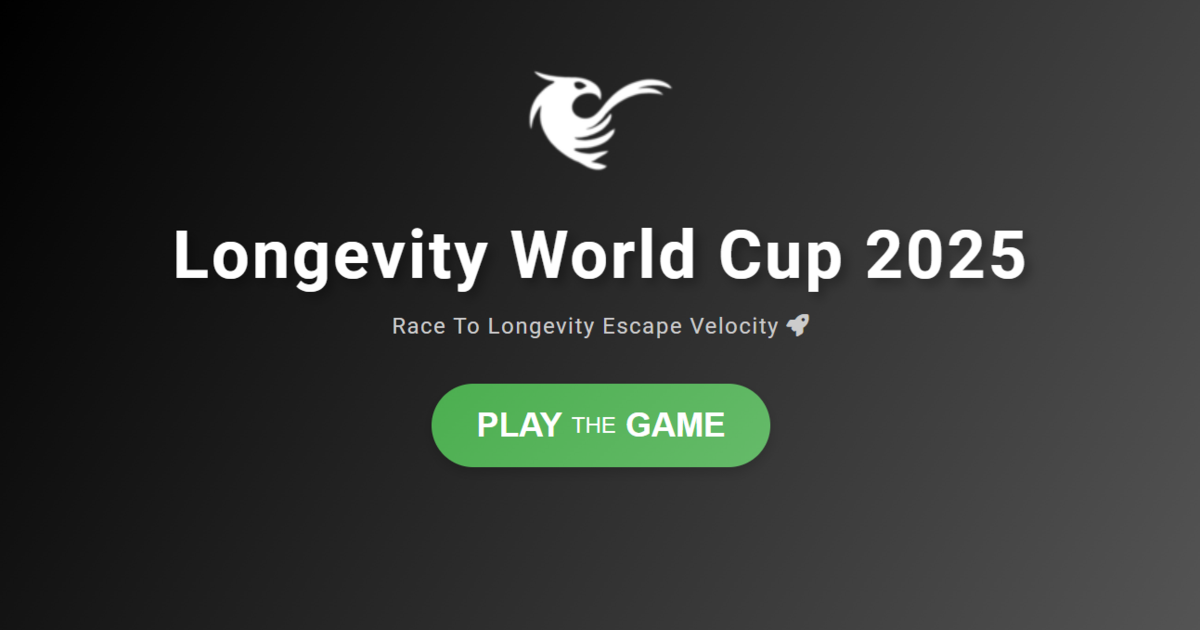
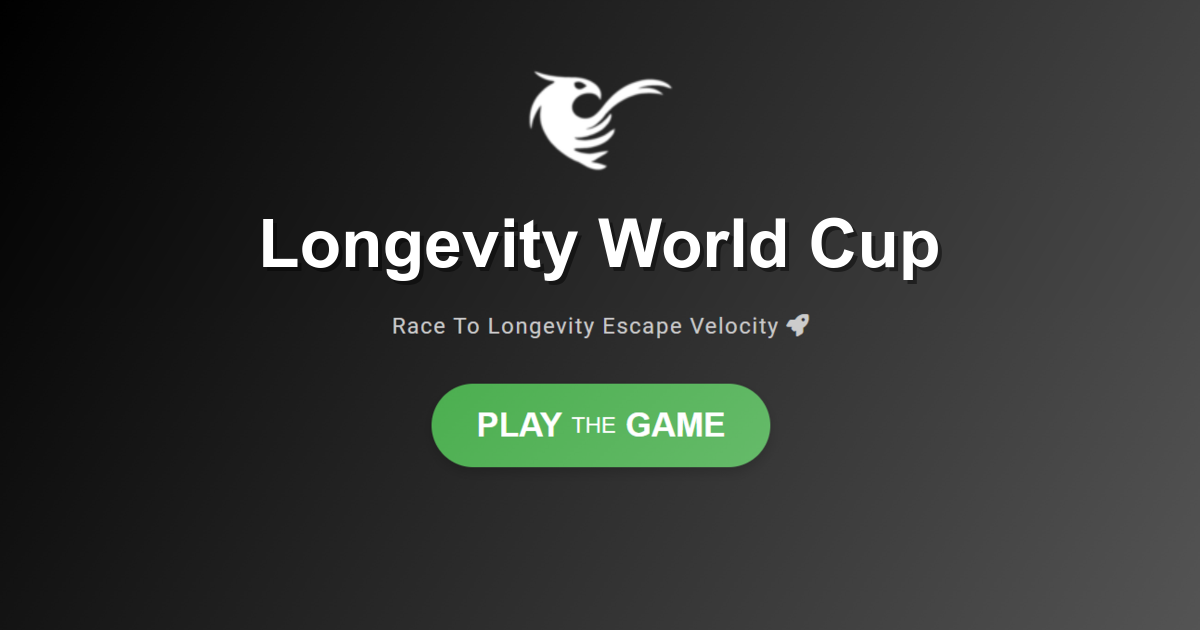
Update default social preview image
Closes #536

Changed region(s): [[0.1233, 0.3317, 0.8633, 0.4825]]

diff --git a/LongevityWorldCup.Website/Middleware/HtmlInjectionMiddleware.cs b/LongevityWorldCup.Website/Middleware/HtmlInjectionMiddleware.cs
@@ -13,7 +13,7 @@ namespace LongevityWorldCup.Website.Middleware
         private readonly LeagueOgImageService _leagueOgImages = leagueOgImages;
         private readonly AssetVersionProvider _assetVersionProvider = assetVersionProvider;
         private const string SiteBaseUrl = "https://longevityworldcup.com";
-        private const string DefaultOgImage = "https://longevityworldcup.com/assets/og-image.png";
+        private const string DefaultOgImagePath = "/assets/og-image.png";
         private static readonly HashSet<string> IndexableRoutes = new(StringComparer.OrdinalIgnoreCase)
         {
             "/",
@@ -325,10 +325,11 @@ $@"<script type=""module"">
             return baseSeo;
         }
 
-        private static SeoMeta GetBaseSeoMeta(string requestPath)
+        private SeoMeta GetBaseSeoMeta(string requestPath)
         {
             var canonicalPath = RouteCanonicalization.GetCanonicalPath(requestPath);
             var canonicalUrl = $"{SiteBaseUrl}{canonicalPath}";
+            var defaultOgImage = BuildDefaultOgImageUrl();
 
             return canonicalPath switch
             {
@@ -340,7 +341,7 @@ $@"<script type=""module"">
                     "Longevity World Cup | Reverse Your Biological Age",
                     "Longevity World Cup | Reverse Your Biological Age",
                     "Too old for your sport? Not this one. Join the Longevity World Cup and rise on the leaderboard by improving your biological age.",
-                    DefaultOgImage
+                    defaultOgImage
                 ),
                 "/leaderboard" => new SeoMeta(
                     canonicalPath,
@@ -350,7 +351,7 @@ $@"<script type=""module"">
                     "Leaderboard | Longevity World Cup",
                     "Leaderboard | Longevity World Cup",
                     "View the Longevity World Cup leaderboard for verified biological age reduction rankings across athletes, leagues, and categories.",
-                    DefaultOgImage
+                    defaultOgImage
                 ),
                 "/events" => new SeoMeta(
                     canonicalPath,
@@ -360,7 +361,7 @@ $@"<script type=""module"">
                     "Highlights | Longevity World Cup",
                     "Highlights | Longevity World Cup",
                     "Follow key Longevity World Cup events, season updates, and competition highlights.",
-                    DefaultOgImage
+                    defaultOgImage
                 ),
                 "/media" => new SeoMeta(
                     canonicalPath,
@@ -370,7 +371,7 @@ $@"<script type=""module"">
                     "Media Kit | Longevity World Cup",
                     "Media Kit | Longevity World Cup",
                     "Access the Longevity World Cup media kit with press-ready branding assets and resources.",
-                    DefaultOgImage
+                    defaultOgImage
                 ),
                 _ when !IndexableRoutes.Contains(canonicalPath) => new SeoMeta(
                     canonicalPath,
@@ -380,7 +381,7 @@ $@"<script type=""module"">
                     "Longevity World Cup",
                     "Longevity World Cup",
                     "Longevity World Cup member page.",
-                    DefaultOgImage
+                    defaultOgImage
                 ),
                 _ => new SeoMeta(
                     canonicalPath,
@@ -390,9 +391,14 @@ $@"<script type=""module"">
                     "Longevity World Cup",
                     "Longevity World Cup",
                     "Longevity World Cup - reverse biological age and compete globally.",
-                    DefaultOgImage
+                    defaultOgImage
                 )
             };
+        }
+
+        private string BuildDefaultOgImageUrl()
+        {
+            return $"{SiteBaseUrl}{_assetVersionProvider.AppendVersion(DefaultOgImagePath)}";
         }
 
         private static string ReplacePageTitle(string html, string title)
@@ -498,7 +504,7 @@ $@"<script type=""module"">
             var description = $"Track rankings in the {payload.DisplayName}.{top3Text}";
             var ogImageUrl = _leagueOgImages.IsConfigured
                 ? _leagueOgImages.BuildVersionedImageUrl(SiteBaseUrl, payload)
-                : DefaultOgImage;
+                : BuildDefaultOgImageUrl();
 
             seo = new SeoMeta(
                 canonicalPath,
@@ -558,7 +564,7 @@ $@"<script type=""module"">
             return false;
         }
 
-        private static string BuildStructuredDataJson(SeoMeta seo)
+        private string BuildStructuredDataJson(SeoMeta seo)
         {
             var breadcrumbItems = new List<object>
             {
@@ -593,7 +599,7 @@ $@"<script type=""module"">
                         ["@id"] = $"{SiteBaseUrl}/#organization",
                         ["name"] = "Longevity World Cup",
                         ["url"] = SiteBaseUrl,
-                        ["logo"] = DefaultOgImage
+                        ["logo"] = BuildDefaultOgImageUrl()
                     },
                     new Dictionary<string, object>
                     {
